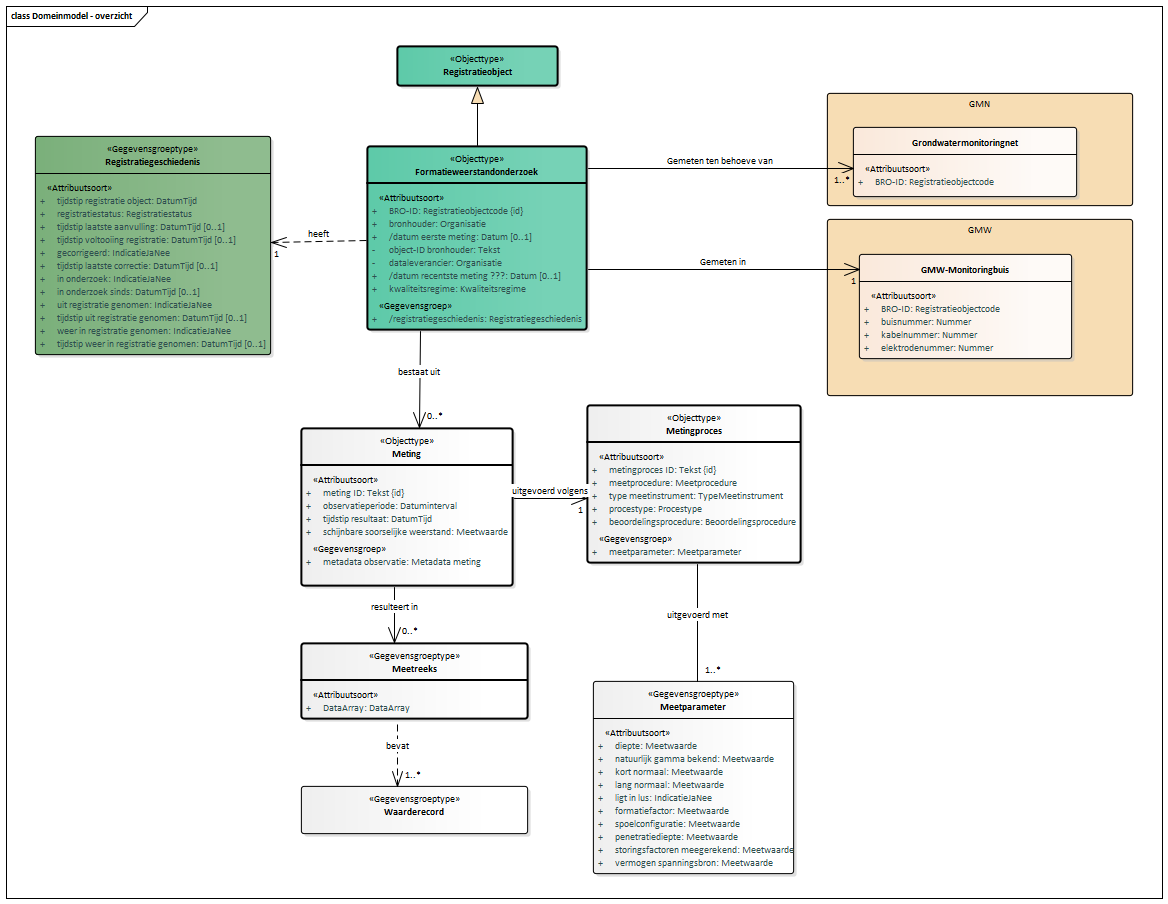
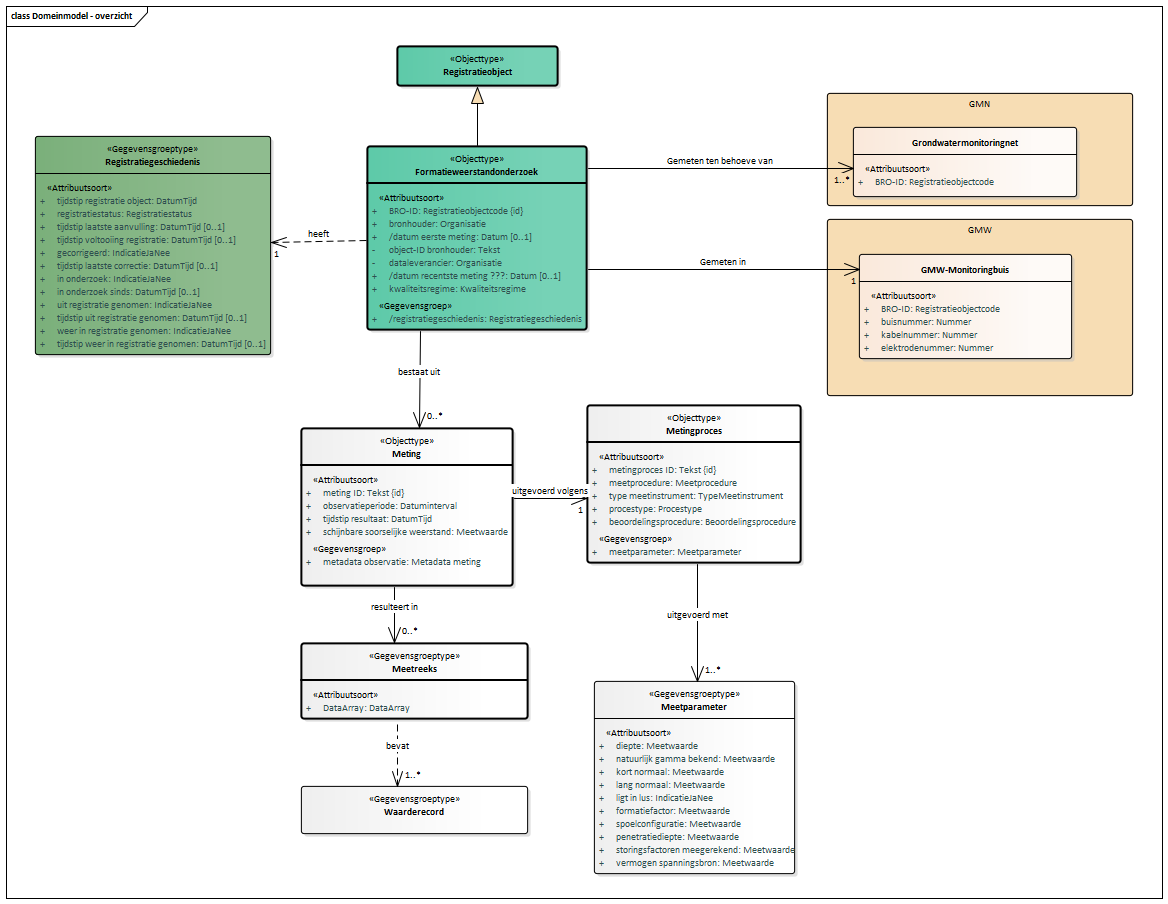
Conceptualmodel-FormatieweerstandonderzoekFRDconceptueel-0.1-1-20200401-20200626-170125

Changed region(s): [[0.4932, 0.7434, 0.6781, 0.9602]]

diff --git a/data/FRD-cat.msword.html b/data/FRD-cat.msword.html
@@ -15,7 +15,7 @@
    <body>
       <p>Conceptual model/Formatieweerstand onderzoek (FRD) conceptueel/20200401</p>
       <p>Imvertor: 1.60.1</p>
-      <p>Model release: Conceptualmodel-FormatieweerstandonderzoekFRDconceptueel-0.1-1-20200401-20200626-165740</p>
+      <p>Model release: Conceptualmodel-FormatieweerstandonderzoekFRDconceptueel-0.1-1-20200401-20200626-170125</p>
       <hr>
       <section>
          <h1>Artikel 1 Definitie van registratieobject, entiteiten en attributen</h1>
@@ -58,7 +58,7 @@
          <section>
             <h2>Het domeinmodel</h2>
             <section id="">
-               <div class="imageinfo overview"><img src="Images/EAID_0B3602DB_544E_4f6f_A6E2_DDE4A8A6790E.png" usemap="#imagemap-EAID_0B3602DB_544E_4f6f_A6E2_DDE4A8A6790E" alt="Diagram "><map name="imagemap-EAID_0B3602DB_544E_4f6f_A6E2_DDE4A8A6790E"><area shape="rect" alt="Waarderecord" coords="301,786,528,834" href="#graph_EAID_0C5DFCB8_6798_4969_A134_1123907EC660"><area shape="rect" alt="Meetreeks" coords="301,643,528,719" href="#graph_EAID_8A5A9DFD_065F_4298_8847_E23744B37C56"><area shape="rect" alt="Metingproces" coords="587,405,801,563" href="#graph_EAID_5E1E519A_9595_4284_94CA_963F563801A1"><area shape="rect" alt="Meting" coords="301,428,513,586" href="#graph_EAID_D3B48B39_96CC_4f01_91F1_BDF0B725CD8A"><area shape="rect" alt="Registratiegeschiedenis" coords="35,136,271,355" href="#graph_EAID_0451B041_6862_420f_9E12_9829516BAF81"><area shape="rect" alt="Formatieweerstandonderzoek" coords="367,146,587,330" href="#graph_EAID_F03C2FC8_5705_46dc_927D_01B7EC61C2F2"><area shape="rect" alt="Registratieobject" coords="397,46,558,86" href="#graph_EAID_5706F7F6_075B_46d6_A47D_7DCF1EEB21B7"><area shape="rect" alt="Meetparameter" coords="593,681,794,874" href="#graph_EAID_A1A80DF7_7D38_4063_8DE9_80EDAAF846B4"></map><p><b>Domeinmodel</b></p>
+               <div class="imageinfo overview"><img src="Images/EAID_0B3602DB_544E_4f6f_A6E2_DDE4A8A6790E.png" usemap="#imagemap-EAID_0B3602DB_544E_4f6f_A6E2_DDE4A8A6790E" alt="Diagram "><map name="imagemap-EAID_0B3602DB_544E_4f6f_A6E2_DDE4A8A6790E"><area shape="rect" alt="Waarderecord" coords="301,786,528,834" href="#graph_EAID_0C5DFCB8_6798_4969_A134_1123907EC660"><area shape="rect" alt="Meetreeks" coords="301,643,528,719" href="#graph_EAID_8A5A9DFD_065F_4298_8847_E23744B37C56"><area shape="rect" alt="Metingproces" coords="587,405,801,563" href="#graph_EAID_5E1E519A_9595_4284_94CA_963F563801A1"><area shape="rect" alt="Meting" coords="301,428,513,586" href="#graph_EAID_D3B48B39_96CC_4f01_91F1_BDF0B725CD8A"><area shape="rect" alt="Registratiegeschiedenis" coords="35,136,271,355" href="#graph_EAID_0451B041_6862_420f_9E12_9829516BAF81"><area shape="rect" alt="Formatieweerstandonderzoek" coords="367,146,587,330" href="#graph_EAID_F03C2FC8_5705_46dc_927D_01B7EC61C2F2"><area shape="rect" alt="Registratieobject" coords="397,46,558,86" href="#graph_EAID_5706F7F6_075B_46d6_A47D_7DCF1EEB21B7"><area shape="rect" alt="Meetparameter" coords="594,681,795,874" href="#graph_EAID_A1A80DF7_7D38_4063_8DE9_80EDAAF846B4"></map><p><b>Domeinmodel</b></p>
                </div>
             </section>
          </section>
@@ -2063,6 +2063,12 @@
                               <td>Attribuut van Meetparameter</td>
                            </tr>
                            <tr>
+                              <th>Definitie</th>
+                              <td>
+                                 TODO 
+                                 </td>
+                           </tr>
+                           <tr>
                               <th>Juridische status</th>
                               <td>Authentiek</td>
                            </tr>
@@ -2097,6 +2103,12 @@
                               <td>Attribuut van Meetparameter</td>
                            </tr>
                            <tr>
+                              <th>Definitie</th>
+                              <td>
+                                 TODO 
+                                 </td>
+                           </tr>
+                           <tr>
                               <th>Juridische status</th>
                               <td>Authentiek</td>
                            </tr>
@@ -2129,6 +2141,12 @@
                            <tr>
                               <th>Type gegeven</th>
                               <td>Attribuut van Meetparameter</td>
+                           </tr>
+                           <tr>
+                              <th>Definitie</th>
+                              <td>
+                                 TODO 
+                                 </td>
                            </tr>
                            <tr>
                               <th>Juridische status</th>
